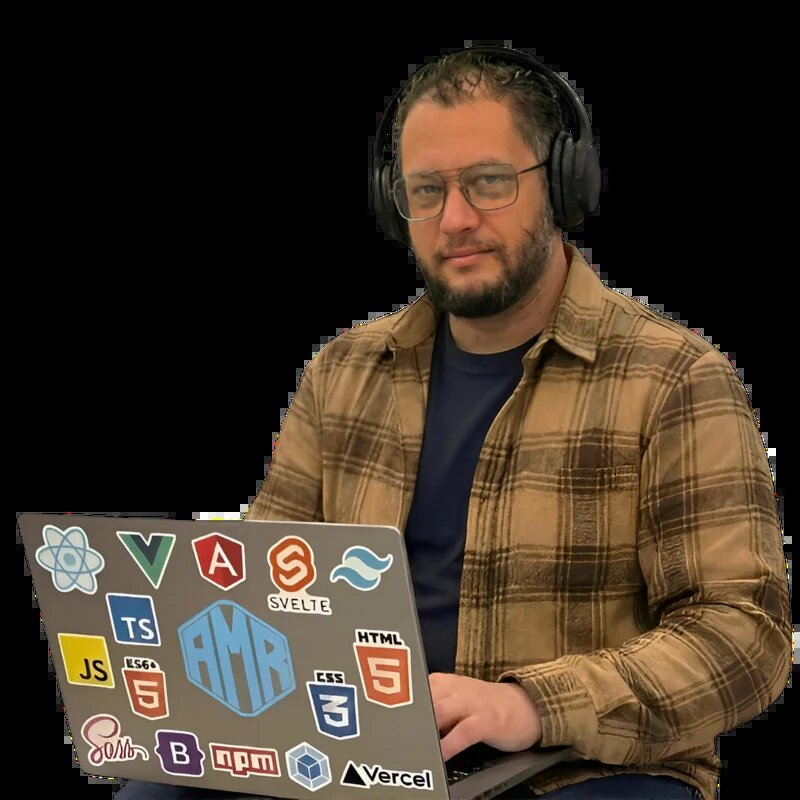
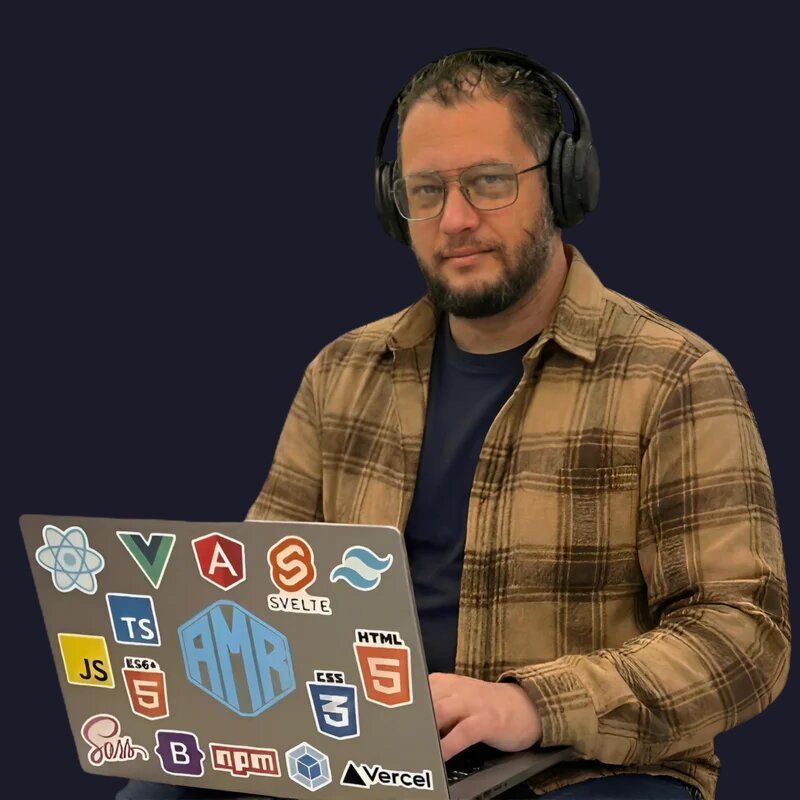
Fix profile photo edges and convert the About photo to JPG
The profile photo is a cutout with a transparent background. Converting it
straight to JPG exposed the colours hidden in its transparent pixels as
speckles along the edges. Composite it onto the photo frame's own background
(#1b1b29) first, so it looks exactly as before on the page.

Convert the About photo from a 1.4 MB PNG to a 251 KB JPG named after its
owner, keeping its existing alt text.

diff --git a/components/Sections/AboutSection.tsx b/components/Sections/AboutSection.tsx
@@ -170,7 +170,7 @@ export function AboutSection() {
           <div className="relative lg:mt-12 max-w-md w-full mx-auto lg:mx-0 lg:justify-self-end pb-16 sm:pb-10">
             <div className="about-photo relative aspect-4/5 overflow-hidden border border-border-default bg-bg-elevated">
               <Image
-                src="/profile-about.png"
+                src="/amr-elshabrawy-frontend-developer-cairo.jpg"
                 alt={`${personalInfo.name}, freelance front-end developer in Cairo`}
                 fill
                 priority
